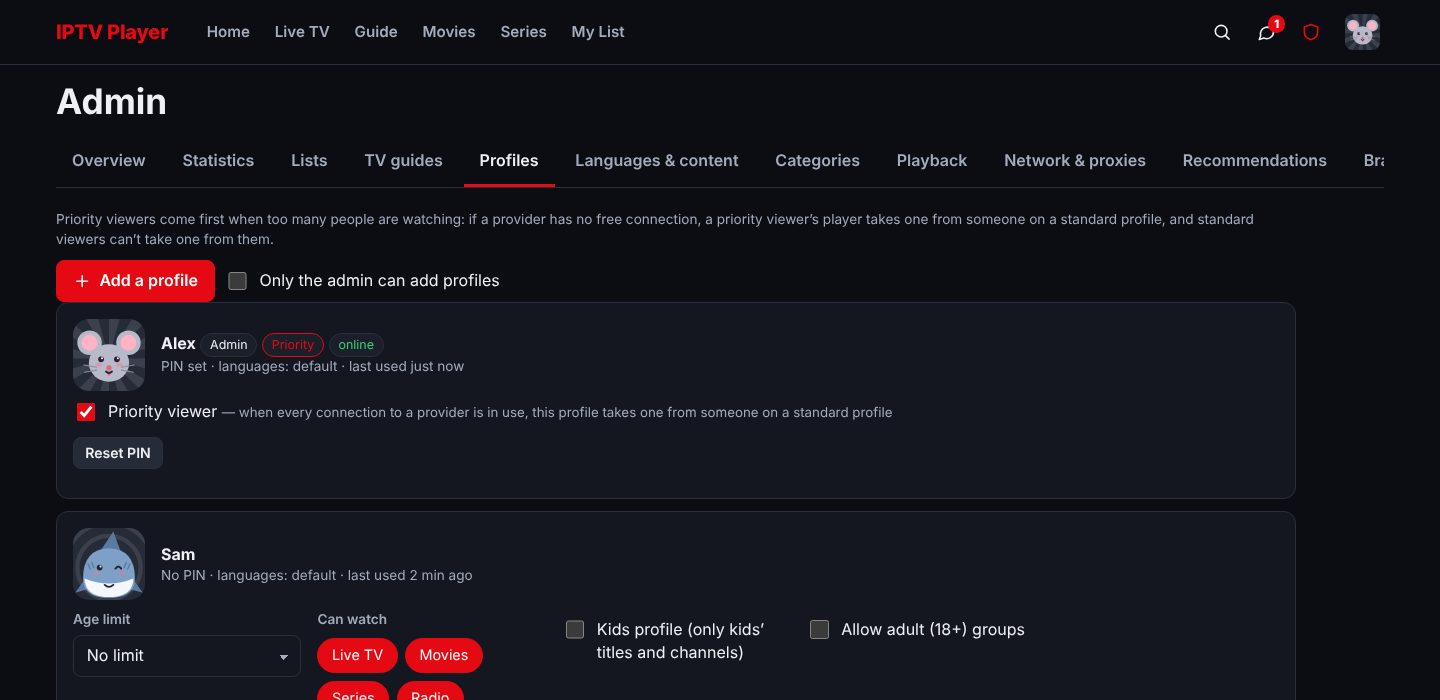
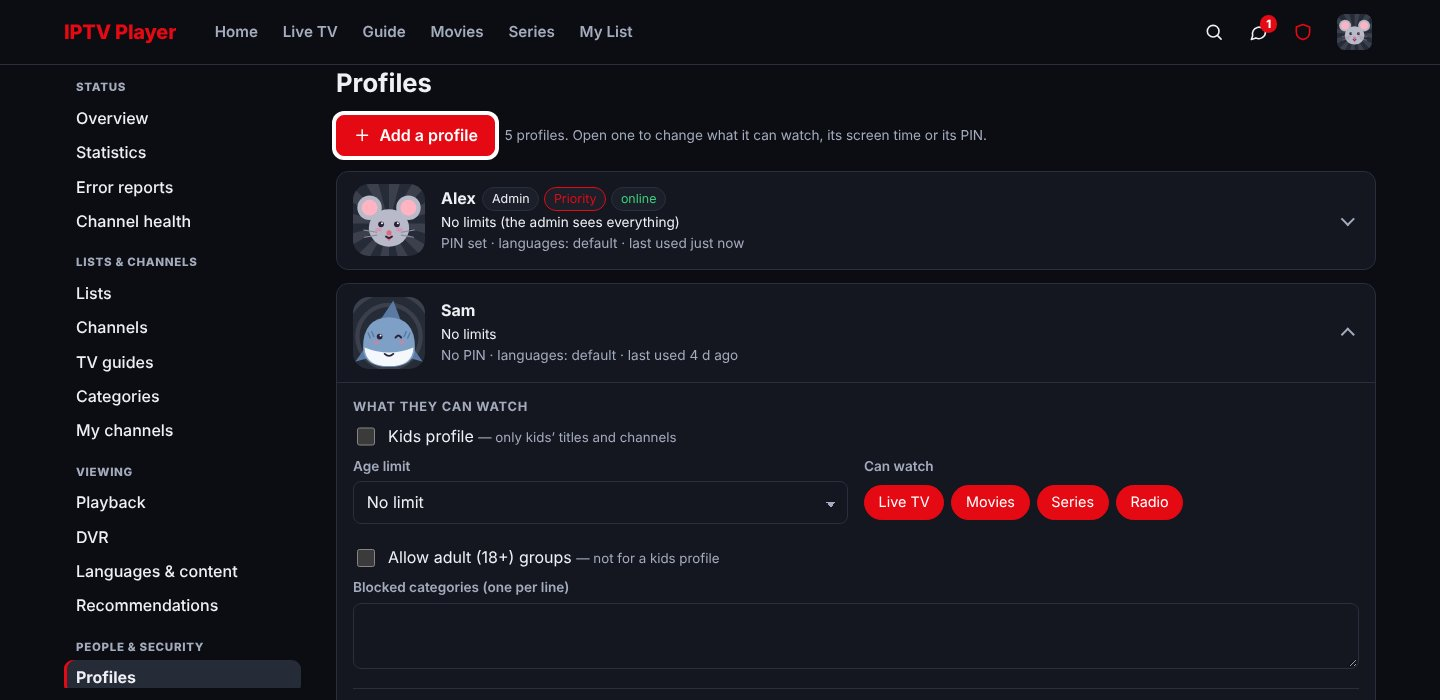
Admin Profiles page reorganised: each profile is one row with its limits in a line that opens to sections for what it can watch, screen time, priority, PIN and account; unsaved changes are marked; household settings and the Guest moved to their own section

diff --git a/web/js/admin.js b/web/js/admin.js
@@ -359,53 +359,110 @@ V.adminTabs.guides = function (body, A) {
   };
 };
 
+// Admin → Profiles. Everyone on one screen as a short row (who they are, what they're limited to); a row opens
+// to that profile's settings, in sections: what they can watch, screen time (web/js/screentime.js puts it in
+// its slot), connections, then the PIN and the account. What goes for the whole household is below the list.
+var PROF_CERTS = [['', 'No limit'], ['0', 'Little kids (G, TV-Y)'], ['1', 'Kids (PG, TV-PG)'], ['2', 'Teens (PG-13, TV-14)'], ['3', 'Mature (R, TV-MA)']];
+var PROF_TYPES = [['live', 'Live TV'], ['movie', 'Movies'], ['show', 'Series'], ['radio', 'Radio']];
+var profOpen = {}; // (the rows that are open: kept while the page is drawn again)
+/** A profile's limits in a line, for its row. */
+function profLimits(p, A) {
+  if (p.admin) return 'No limits (the admin sees everything)';
+  var r = p.restrictions || {}, bits = [];
+  if (p.kids) bits.push('Kids’ titles and channels only');
+  var c = PROF_CERTS.filter(function (x) { return x[0] !== '' && x[0] === String(r.maxCert); })[0];
+  if (c) bits.push('Age limit: ' + c[1].replace(/\s*\(.*$/, ''));
+  if (r.types && r.types.length && r.types.length < PROF_TYPES.length) bits.push('Only ' + PROF_TYPES.filter(function (t) { return r.types.indexOf(t[0]) >= 0; }).map(function (t) { return t[1]; }).join(', '));
+  if (r.adult && !p.kids && !A.settings.noAdult) bits.push('Adult (18+) allowed');
+  var nb = (r.blockedGroups || []).length;
+  if (nb) bits.push(nb + (nb === 1 ? ' blocked category' : ' blocked categories'));
+  return bits.join(' · ') || 'No limits';
+}
+function profChips(p) {
+  return (p.admin ? ' <span class="chip sm">Admin</span>' : '') + (p.kids ? ' <span class="chip sm">Kids</span>' : '') + (p.priority ? ' <span class="chip sm pri">Priority</span>' : '') + (p.online ? ' <span class="chip sm ok">online</span>' : '');
+}
 V.adminTabs.profiles = function (body, A) {
-  var certs = [['', 'No limit'], ['0', 'Little kids (G, TV-Y)'], ['1', 'Kids (PG, TV-PG)'], ['2', 'Teens (PG-13, TV-14)'], ['3', 'Mature (R, TV-MA)']];
-  body.innerHTML = '<p class="dim small">Priority viewers come first when too many people are watching: if a provider has no free connection, a priority viewer’s player takes one from someone on a standard profile, and standard viewers can’t take one from them.</p><div class="page-tools"><button class="btn primary" data-add>' + V.icon('plus') + ' Add a profile</button><label class="check"><input type="checkbox" data-aop' + (A.settings.adminOnlyProfiles ? ' checked' : '') + '><span>Only the admin can add profiles</span></label></div>' +
+  var s = A.settings;
+  var hasKids = A.profiles.some(function (p) { return p.kids; });
+  var opts = function (list, cur) { return list.map(function (c) { return '<option value="' + c[0] + '"' + (String(cur === undefined || cur === null ? '' : cur) === c[0] ? ' selected' : '') + '>' + c[1] + '</option>'; }).join(''); };
+  var card = function (p) {
+    var r = p.restrictions || {};
+    return '<li data-id="' + p.id + '"><details class="ap"' + (profOpen[p.id] ? ' open' : '') + '>' +
+      '<summary class="ap-h">' + V.avatar(p.avatar, 'lg') + '<div class="ap-who"><div class="ap-n"><b>' + V.esc(p.name) + '</b><span data-chips>' + profChips(p) + '</span><span class="chip sm warn" data-dirty hidden>Not saved</span></div>' +
+        '<div class="ap-lim small"><span data-lim>' + V.esc(profLimits(p, A)) + '</span><span data-st-sum></span></div>' +
+        '<div class="dim small">' + (p.hasPin ? 'PIN set' : 'No PIN') + ' · languages: ' + (p.langs ? V.esc(p.langs.map(function (c) { return V.langName(c); }).join(', ')) || 'none' : 'default') + ' · last used ' + V.fmtAgo(p.lastUsedAt) + '</div></div>' +
+        '<span class="ap-x" aria-hidden="true"></span></summary>' +
+      '<div class="ap-body">' +
+        (p.admin ? '' : '<section class="ap-sec ap-limits"><h4>What they can watch</h4>' +
+          '<label class="check"><input type="checkbox" data-r="kids"' + (p.kids ? ' checked' : '') + '><span>Kids profile <small class="dim">— only kids’ titles and channels</small></span></label>' +
+          '<div class="grid2"><label class="field"><span>Age limit</span><select class="input" data-r="maxCert">' + opts(PROF_CERTS, r.maxCert) + '</select></label>' +
+          '<div class="field"><span>Can watch</span><div class="chips">' + PROF_TYPES.map(function (t) { var on = !r.types || !r.types.length || r.types.indexOf(t[0]) >= 0; return '<label class="chip-check"><input type="checkbox" data-type="' + t[0] + '"' + (on ? ' checked' : '') + '><span>' + t[1] + '</span></label>'; }).join('') + '</div></div></div>' +
+          '<label class="check"><input type="checkbox" data-r="adult"' + (r.adult && !p.kids ? ' checked' : '') + (p.kids ? ' disabled' : '') + '><span>Allow adult (18+) groups' + (s.noAdult ? ' <small class="dim">— off for everyone (Languages & content → Adult content)</small>' : ' <small class="dim">— not for a kids profile</small>') + '</span></label>' +
+          '<label class="field"><span>Blocked categories (one per line)</span><textarea class="input" rows="2" data-r="blockedGroups">' + V.esc((r.blockedGroups || []).join('\n')) + '</textarea></label></section>') +
+        '<div data-st-slot></div>' +
+        '<section class="ap-sec"><h4>When every connection is in use</h4><label class="check ap-pri"><input type="checkbox" data-pri' + (p.priority ? ' checked' : '') + '><span>Priority viewer <small class="dim">— takes a connection from someone on a standard profile; standard viewers can’t take one from them. Saved straight away.</small></span></label></section>' +
+        '<div class="ap-foot">' + (p.admin ? '<span></span>' : '<div class="btn-row"><button class="btn sm primary" data-save>Save changes</button></div>') +
+          '<div class="btn-row ap-acct"><button class="btn sm" data-pin>' + (p.hasPin ? 'Change PIN' : 'Set a PIN') + '</button>' + (p.admin ? '' : '<button class="btn sm" data-make>Make admin</button><button class="btn sm danger" data-del>Delete profile</button>') + '</div></div>' +
+      '</div></details></li>';
+  };
+  body.innerHTML = '<div class="page-tools ap-tools"><button class="btn primary" data-add>' + V.icon('plus') + ' Add a profile</button><span class="dim small">' + A.profiles.length + (A.profiles.length === 1 ? ' profile' : ' profiles') + '. Open one to change what it can watch, its screen time or its PIN.</span></div>' +
+    '<ul class="adm-profiles">' + A.profiles.map(card).join('') + '</ul>' +
+    '<section class="card-sec adm-house"><h2>For the whole household</h2>' +
+    '<label class="check"><input type="checkbox" data-aop' + (s.adminOnlyProfiles || hasKids ? ' checked' : '') + (hasKids ? ' disabled' : '') + '><span>Only the admin can add profiles' + (hasKids ? ' <small class="dim">— always, while there’s a kids profile</small>' : '') + '</span></label>' +
     // A Guest on "Who's watching?" (web/js/guest.js): nothing it watches is kept or shown to anyone else.
-    '<section class="card-sec adm-guest"><h3>Guest</h3><label class="check"><input type="checkbox" data-guest="guestProfile"' + (A.settings.guestProfile ? ' checked' : '') + '><span>Offer a Guest on “Who’s watching?” <small class="dim">— for visitors: no PIN, nothing they watch, like or add to My List is saved (it’s forgotten when they leave), and none of it goes into anyone’s recommendations or “also watched”. Guests can’t record, message, start watch parties or change anything here.</small></span></label>' +
-    '<div class="grid2"><div><label class="check"><input type="checkbox" data-guest="guestKids"' + (A.settings.guestKids ? ' checked' : '') + '><span>Kids’ titles and channels only</span></label>' +
-    '<label class="check"><input type="checkbox" data-guest="guestAdult"' + (A.settings.guestAdult ? ' checked' : '') + '><span>Allow adult (18+) groups <small class="dim">— not with kids’ titles only' + (A.settings.noAdult ? '; off for everyone now (Languages & content → Adult content)' : '') + '</small></span></label></div>' +
-    '<label class="field"><span>Age limit for guests</span><select class="input" data-guest="guestMaxCert">' + certs.map(function (c) { return '<option value="' + c[0] + '"' + (String(A.settings.guestMaxCert || '') === c[0] ? ' selected' : '') + '>' + c[1] + '</option>'; }).join('') + '</select></label></div></section>' +
-    '<ul class="adm-profiles">' + A.profiles.map(function (p) {
-      var r = p.restrictions || {};
-      return '<li data-id="' + p.id + '"><div class="ap-h">' + V.avatar(p.avatar, 'lg') + '<div><b>' + V.esc(p.name) + '</b>' + (p.admin ? ' <span class="chip sm">Admin</span>' : '') + (p.kids ? ' <span class="chip sm">Kids</span>' : '') + (p.priority ? ' <span class="chip sm pri" data-prichip>Priority</span>' : '') + (p.online ? ' <span class="chip sm ok">online</span>' : '') +
-        '<div class="dim small">' + (p.hasPin ? 'PIN set' : 'No PIN') + ' · languages: ' + (p.langs ? V.esc(p.langs.map(function (c) { return V.langName(c); }).join(', ')) || 'none' : 'default') + ' · last used ' + V.fmtAgo(p.lastUsedAt) + '</div></div></div>' +
-        (p.admin ? '' : '<div class="ap-limits grid2"><label class="field"><span>Age limit</span><select class="input" data-r="maxCert">' + certs.map(function (c) { return '<option value="' + c[0] + '"' + (String(r.maxCert) === c[0] ? ' selected' : '') + '>' + c[1] + '</option>'; }).join('') + '</select></label>' +
-          '<div class="field"><span>Can watch</span><div class="chips">' + [['live', 'Live TV'], ['movie', 'Movies'], ['show', 'Series'], ['radio', 'Radio']].map(function (t) { var on = !r.types || !r.types.length || r.types.indexOf(t[0]) >= 0; return '<label class="chip-check"><input type="checkbox" data-type="' + t[0] + '"' + (on ? ' checked' : '') + '><span>' + t[1] + '</span></label>'; }).join('') + '</div></div>' +
-          '<label class="check"><input type="checkbox" data-r="kids"' + (p.kids ? ' checked' : '') + '><span>Kids profile (only kids’ titles and channels)</span></label><label class="check"><input type="checkbox" data-r="adult"' + (r.adult ? ' checked' : '') + '><span>Allow adult (18+) groups' + (A.settings.noAdult ? ' <small class="dim">— off for everyone (Languages & content → Adult content)</small>' : '') + '</span></label>' +
-          '<label class="field wide"><span>Blocked categories (one per line)</span><textarea class="input" rows="2" data-r="blockedGroups">' + V.esc((r.blockedGroups || []).join('\n')) + '</textarea></label></div>') +
-        '<label class="check ap-pri"><input type="checkbox" data-pri' + (p.priority ? ' checked' : '') + '><span>Priority viewer <small class="dim">— when every connection to a provider is in use, this profile takes one from someone on a standard profile</small></span></label>' +
-        '<div class="btn-row">' + (p.admin ? '' : '<button class="btn sm primary" data-save>Save limits</button>') + '<button class="btn sm" data-pin>' + (p.hasPin ? 'Reset PIN' : 'Set a PIN') + '</button>' + (p.admin ? '' : '<button class="btn sm" data-make>Make admin</button><button class="btn sm danger" data-del>Delete</button>') + '</div></li>';
-    }).join('') + '</ul>';
+    '<h3>Guest</h3><label class="check"><input type="checkbox" data-guest="guestProfile"' + (s.guestProfile ? ' checked' : '') + '><span>Offer a Guest on “Who’s watching?” <small class="dim">— for visitors: no PIN, nothing they watch, like or add to My List is saved (it’s forgotten when they leave), and none of it goes into anyone’s recommendations or “also watched”. Guests can’t record, message, start watch parties or change anything here.</small></span></label>' +
+    '<div class="adm-guest"' + (s.guestProfile ? '' : ' hidden') + '><div class="grid2"><div><label class="check"><input type="checkbox" data-guest="guestKids"' + (s.guestKids ? ' checked' : '') + '><span>Kids’ titles and channels only</span></label>' +
+    '<label class="check"><input type="checkbox" data-guest="guestAdult"' + (s.guestAdult ? ' checked' : '') + '><span>Allow adult (18+) groups <small class="dim">— not with kids’ titles only' + (s.noAdult ? '; off for everyone now (Languages & content → Adult content)' : '') + '</small></span></label></div>' +
+    '<label class="field"><span>Age limit for guests</span><select class="input" data-guest="guestMaxCert">' + opts(PROF_CERTS, s.guestMaxCert || '') + '</select></label></div></div></section>';
+  var byId = function (id) { return A.profiles.filter(function (x) { return x.id === id; })[0]; };
+  var dirty = function (li, on) { var d = V.$('[data-dirty]', li); if (d) d.hidden = !on; li.classList.toggle('dirty', !!on); };
+  // (Which rows are open, for when the page is drawn again after a PIN or a deletion.)
+  body.addEventListener('toggle', function (e) { var li = e.target.classList && e.target.classList.contains('ap') && e.target.closest('[data-id]'); if (li) profOpen[li.dataset.id] = e.target.open; }, true);
+  body.addEventListener('input', function (e) { var li = e.target.closest('.ap-limits, .st-box') && e.target.closest('[data-id]'); if (li) dirty(li, true); });
   body.onchange = function (e) {
-    if (e.target.hasAttribute('data-aop')) V.adminSave({ adminOnlyProfiles: e.target.checked });
-    else if (e.target.hasAttribute('data-guest')) { var gp = {}; gp[e.target.dataset.guest] = e.target.type === 'checkbox' ? e.target.checked : e.target.value; V.adminSave(gp).then(function (s) { if (s) Object.assign(A.settings, gp); }).catch(function () {}); }
-    else if (e.target.hasAttribute('data-pri')) {
+    var t = e.target, li = t.closest('[data-id]');
+    if (t.hasAttribute('data-aop')) V.adminSave({ adminOnlyProfiles: t.checked }).catch(function () { t.checked = !t.checked; });
+    else if (t.hasAttribute('data-guest')) {
+      var gp = {};
+      gp[t.dataset.guest] = t.type === 'checkbox' ? t.checked : t.value;
+      if (t.dataset.guest === 'guestProfile') V.$('.adm-guest', body).hidden = !t.checked;
+      V.adminSave(gp).then(function (ns) { if (ns) Object.assign(A.settings, gp); }).catch(function () {});
+    } else if (t.hasAttribute('data-pri')) {
       // Saved straight away (it isn't one of the limits).
-      var li = e.target.closest('[data-id]'), on = e.target.checked, p = A.profiles.filter(function (x) { return x.id === li.dataset.id; })[0];
+      var on = t.checked, p = byId(li.dataset.id);
       V.put('/api/admin/profiles/' + li.dataset.id, { priority: on }).then(function () {
-        if (p) p.priority = on;
-        var chip = V.$('[data-prichip]', li);
-        if (on && !chip) V.$('.ap-h b', li).insertAdjacentHTML('afterend', ' <span class="chip sm pri" data-prichip>Priority</span>');
-        else if (!on && chip) chip.remove();
+        if (p) { p.priority = on; V.$('[data-chips]', li).innerHTML = profChips(p); }
         V.toast(on ? (p ? p.name : 'They') + ' now has priority' : (p ? p.name : 'They') + ' is a standard viewer again');
-      }).catch(function (err) { e.target.checked = !on; V.fail(err); });
+      }).catch(function (err) { t.checked = !on; V.fail(err); });
+    } else if (li && t.closest('.ap-limits, .st-box')) {
+      // (A kids profile never gets the adult groups.)
+      if (t.getAttribute('data-r') === 'kids') { var ad = V.$('[data-r=adult]', li); ad.disabled = t.checked; if (t.checked) ad.checked = false; }
+      dirty(li, true);
     }
   };
   body.onclick = function (e) {
     if (e.target.closest('[data-add]')) { S.boot.firstRun = false; return V.addProfileDialog(); }
     var li = e.target.closest('[data-id]');
     if (!li) return;
-    var id = li.dataset.id, p = A.profiles.filter(function (x) { return x.id === id; })[0];
+    var id = li.dataset.id, p = byId(id);
     if (e.target.closest('[data-save]')) {
       var types = V.$$('[data-type]', li).filter(function (x) { return x.checked; }).map(function (x) { return x.dataset.type; });
-      V.put('/api/admin/profiles/' + id, { kids: V.$('[data-r=kids]', li).checked, restrictions: { maxCert: V.$('[data-r=maxCert]', li).value, types: types.length === 4 ? [] : types, adult: V.$('[data-r=adult]', li).checked, blockedGroups: V.$('[data-r=blockedGroups]', li).value.split('\n').map(function (x) { return x.trim(); }).filter(Boolean) } }).then(function () { V.toast('Saved'); }).catch(V.fail);
+      var kids = V.$('[data-r=kids]', li).checked;
+      var rs = { maxCert: V.$('[data-r=maxCert]', li).value, types: types.length === 4 ? [] : types, adult: V.$('[data-r=adult]', li).checked, blockedGroups: V.$('[data-r=blockedGroups]', li).value.split('\n').map(function (x) { return x.trim(); }).filter(Boolean) };
+      V.put('/api/admin/profiles/' + id, { kids: kids, restrictions: rs }).then(function () {
+        // (The row says what was saved.)
+        p.kids = kids; p.restrictions = rs;
+        V.$('[data-chips]', li).innerHTML = profChips(p);
+        V.$('[data-lim]', li).textContent = profLimits(p, A);
+        dirty(li, false);
+        V.toast('Saved');
+      }).catch(V.fail);
     } else if (e.target.closest('[data-pin]')) V.prompt('New PIN for ' + p.name + ' (4–8 digits' + (p.admin ? '' : ', empty to remove') + ')', { type: 'password' }).then(function (pin) { if (pin === null) return; V.put('/api/admin/profiles/' + id, { pin: pin }).then(function () { V.toast('Saved'); V.router.refresh(); }).catch(V.fail); });
     else if (e.target.closest('[data-make]')) V.confirm('Make ' + p.name + ' the admin? You’ll stop being the admin. (There’s only ever one.)', { ok: 'Make admin', danger: true }).then(function (ok) { if (ok) V.api('/api/admin/profiles/' + id + '/make-admin', { method: 'POST' }).then(function () { location.reload(); }).catch(V.fail); });
-    else if (e.target.closest('[data-del]')) V.confirm('Delete ' + p.name + '? Their history, lists and messages are removed.', { ok: 'Delete', danger: true }).then(function (ok) { if (ok) V.del('/api/admin/profiles/' + id).then(function () { V.router.refresh(); }).catch(V.fail); });
+    else if (e.target.closest('[data-del]')) V.confirm('Delete ' + p.name + '? Their history, lists and messages are removed.', { ok: 'Delete', danger: true }).then(function (ok) { if (ok) V.del('/api/admin/profiles/' + id).then(function () { delete profOpen[id]; V.router.refresh(); }).catch(V.fail); });
   };
 };
+
 
 V.adminTabs.content = function (body, A) {
   var s = A.settings;

diff --git a/web/js/screentime.js b/web/js/screentime.js
@@ -260,7 +260,7 @@
       '<div class="st-days">' + groupsHtml(r.mode, r.days) + '</div>' +
       '<p class="dim small">Leave the times empty for no bedtime. Bedtime lasts until the “allowed from” time (06:00 if empty).</p>' +
       '<label class="field"><span>Time zone</span>' + tzField(r.tz || '', tz) + '</label>' +
-      '<p class="dim small">Saved with the profile’s other limits (<b>Save limits</b> below).</p>' +
+      '<p class="dim small">Saved with the profile’s other limits (<b>Save changes</b> below).</p>' +
       (s.limited ? '<div class="st-today"><h4>Today</h4><p>' + V.esc(fmtMin(s.used) + ' watched' + (s.extra ? ' (with ' + fmtMin(s.extra) + ' extra)' : '') + ' · ' + leftText(Object.assign({}, s, { nextAtText: s.nextAtText }))) + '</p>' +
         '<div class="btn-row"><span class="dim small">Extra time today:</span><button class="btn sm" data-st-grant="15">+15 min</button><button class="btn sm" data-st-grant="30">+30 min</button><button class="btn sm" data-st-grant="60">+1 hour</button><button class="btn sm ghost" data-st-reset>Back to normal</button></div>' +
         (week ? '<div class="st-week"><span class="dim small">Last days:</span> ' + week + '</div>' : '') + '</div>' : '') +
@@ -275,6 +275,13 @@
     else r.days = DAYS.map(function (n, i) { return day(String(i)); });
     return r;
   };
+  // The profile's row says its screen time too, and opens by itself when more time was asked for.
+  var head = function (li, x) {
+    var sum = V.$('[data-st-sum]', li), on = x.rule && x.rule.on, asked = (x.requests || []).length;
+    if (sum) sum.innerHTML = (on ? ' · Screen time: ' + V.esc(summary(x)) : '') + (asked ? ' <span class="chip sm warn">Asked for more time</span>' : '');
+    var d = V.$('details.ap', li);
+    if (asked && d && !d.open) d.open = true;
+  };
   var origProfiles = V.adminTabs.profiles;
   V.adminTabs.profiles = function (body, A) {
     origProfiles(body, A);
@@ -282,11 +289,13 @@
       V.$$('.adm-profiles > li[data-id]', body).forEach(function (li) {
         var x = X.profiles[li.dataset.id];
         if (!x) return;
-        var row = V.$('.btn-row', li);
+        // (Its place in the profile's card: web/js/admin.js.)
+        var slot = V.$('[data-st-slot]', li);
         var host = document.createElement('div');
         host.className = 'st-host';
         host.innerHTML = stBox(null, x, X.tz);
-        li.insertBefore(host, row);
+        if (slot) slot.appendChild(host); else li.insertBefore(host, V.$('.btn-row', li));
+        head(li, x);
       });
       body.addEventListener('change', function (e) {
         var box = e.target.closest('.st-box');
@@ -304,7 +313,7 @@
           V.$('.st-days', box).innerHTML = groupsHtml(e.target.value, days);
         }
       });
-      // One Save for the card: "Save limits" saves the screen time too (admin.js saves the rest and says so).
+      // One Save for the card: "Save changes" saves the screen time too (admin.js saves the rest and says so).
       body.addEventListener('click', function (e) {
         var sv = e.target.closest('[data-save]');
         var li = sv && sv.closest('[data-id]');
@@ -313,7 +322,7 @@
         var id = li.dataset.id, rule = readRule(box), had = X.profiles[id] && X.profiles[id].rule;
         if (!rule.on && !had) return; // (never set up: nothing to save)
         var wasOpen = box.open;
-        V.put('/api/admin/screentime/' + id, { rule: rule }).then(function (x) { var h = box.parentNode; h.innerHTML = stBox(null, x, X.tz); if (wasOpen) V.$('.st-box', h).open = true; X.profiles[id] = x; }).catch(V.fail);
+        V.put('/api/admin/screentime/' + id, { rule: rule }).then(function (x) { var h = box.parentNode; h.innerHTML = stBox(null, x, X.tz); if (wasOpen) V.$('.st-box', h).open = true; X.profiles[id] = x; head(li, x); }).catch(V.fail);
       });
       body.addEventListener('click', function (e) {
         var box = e.target.closest('.st-box');
@@ -324,7 +333,7 @@
         box._busy = true; // (a double click doesn't give the extra time twice)
         var free = function (err) { box._busy = false; V.fail(err); };
         // (Drawn again with the answer, still open, with the focus on the same button for a remote.)
-        var done = function (x) { var h = box.parentNode, sel = btn.hasAttribute('data-st-grant') ? '[data-st-grant="' + btn.dataset.stGrant + '"]' : '[data-st-reset]'; h.innerHTML = stBox(null, x, X.tz); var nb = V.$('.st-box', h); nb.open = true; X.profiles[id] = x; var f = V.$(sel, nb); if (f) f.focus(); return x; };
+        var done = function (x) { var h = box.parentNode, sel = btn.hasAttribute('data-st-grant') ? '[data-st-grant="' + btn.dataset.stGrant + '"]' : '[data-st-reset]'; h.innerHTML = stBox(null, x, X.tz); var nb = V.$('.st-box', h); nb.open = true; X.profiles[id] = x; head(li, x); var f = V.$(sel, nb); if (f) f.focus(); return x; };
         if (btn.hasAttribute('data-st-grant')) {
           var m = +btn.dataset.stGrant;
           V.api('/api/admin/screentime/' + id + '/grant', { body: { minutes: m } }).then(function (x) { done(x); V.toast('Gave ' + fmtMin(m) + ' more today'); }, free);

diff --git a/web/css/p27.css b/web/css/p27.css
@@ -113,3 +113,35 @@ dialog.dlg.trl-dlg .dlg-b { padding: 0; }
 button.link { background: none; border: 0; padding: 0; color: var(--accent); font: inherit; cursor: pointer; text-decoration: underline; }
 .gp.none.why { cursor: pointer; }
 .gp.none.why:hover, .gp.none.why:focus-visible { color: var(--text, #fff); }
+
+/* Admin → Profiles: each profile is a row that opens to its settings, in sections. */
+.ap-tools { margin-bottom: .9rem; }
+.adm-profiles > li { padding: 0; overflow: hidden; }
+.ap > summary.ap-h { margin: 0; padding: .8rem 1rem; cursor: pointer; list-style: none; -webkit-tap-highlight-color: transparent; }
+.ap > summary.ap-h::-webkit-details-marker { display: none; }
+.ap > summary.ap-h:hover { background: var(--card); }
+.ap > summary.ap-h:focus-visible { outline: 3px solid var(--accent); outline-offset: -3px; border-radius: 12px; }
+.ap-who { flex: 1 1 auto; min-width: 0; }
+.ap-n { display: flex; flex-wrap: wrap; align-items: center; gap: .25rem .4rem; }
+.ap-n [data-chips] { display: inline-flex; flex-wrap: wrap; gap: .25rem .3rem; }
+.ap-lim { margin: .15rem 0 .1rem; }
+.ap-lim .chip { margin-left: .3rem; }
+.ap-x { flex: none; width: .6rem; height: .6rem; margin: 0 .4rem .2rem; border-right: 2px solid var(--dim); border-bottom: 2px solid var(--dim); transform: rotate(45deg); transition: transform .15s; }
+.ap[open] > summary .ap-x { transform: rotate(-135deg); margin-bottom: -.2rem; }
+.reduce-motion .ap-x { transition: none; }
+.ap[open] > summary.ap-h { border-bottom: 1px solid var(--line); }
+.ap-body { padding: .2rem 1rem .4rem; }
+.ap-sec { padding: .8rem 0; border-bottom: 1px solid var(--line); }
+.ap-sec h4 { margin: 0 0 .4rem; font-size: .8rem; letter-spacing: .06em; text-transform: uppercase; color: var(--dim); }
+.ap-sec .check:last-child, .ap-sec .field:last-child { margin-bottom: 0; }
+.ap-body [data-st-slot]:not(:empty) { padding: .2rem 0; border-bottom: 1px solid var(--line); }
+.ap-foot { display: flex; flex-wrap: wrap; justify-content: space-between; align-items: center; gap: 0 1rem; }
+.ap-foot .ap-acct { margin-left: auto; }
+.adm-house h3 { margin: 1.1rem 0 .3rem; }
+.adm-house .adm-guest { margin: .2rem 0 0 1.75rem; }
+@media (max-width: 600px) {
+  .ap > summary.ap-h { padding: .7rem .8rem; gap: .7rem; align-items: flex-start; }
+  .ap-body { padding: .2rem .8rem .4rem; }
+  .ap-h .avatar.lg { width: 2.8rem; height: 2.8rem; }
+  .adm-house .adm-guest { margin-left: 0; }
+}

diff --git a/README.md b/README.md
@@ -188,14 +188,15 @@ Nothing is shown to someone who hasn't signed in: not the brand, the channels or
 
 ### Profiles and the household
 
-![Admin → Profiles with a Priority viewer switch on each profile](docs/screenshots/admin-profiles.jpg)
+![Admin → Profiles: each profile is a row that opens to what it can watch, its screen time and its PIN](docs/screenshots/admin-profiles.jpg)
 
 - Unlimited profiles with 142 original profile pictures, or upload a photo. Each device remembers its profile.
 - **Optional PINs,** remembered on a device for 6 months or for 30 minutes, with a lockout after wrong guesses (on the device that guessed, and everywhere after many guesses across devices).
 - **Kids profiles and age limits** (five levels, read from US, UK and EU ratings). Profiles can also be limited by type (live, films, series, radio) and category. Adult content is hidden unless allowed.
 - Each profile keeps its own history, My List, favourites, ratings, hidden titles, home layout, theme, subtitle style and languages.
 - **Busy providers:** if someone is already using the provider's connection, it says who's watching what and offers *Take over*. Titles on several providers play from the one with a free connection.
-- **Priority viewers:** mark profiles as *Priority* in Admin → Profiles. When a provider has no free connection, a priority viewer automatically takes one from someone on a standard profile, and that person's screen says who needed it. Standard profiles can't take a connection from a priority viewer.
+- **Admin → Profiles at a glance:** every profile is one row that says who it is and what it's limited to (*Kids' titles only · Age limit: Teens · Screen time: school days 1 h*). A row opens to that profile's settings in sections: what it can watch, screen time, priority, then its PIN and the account buttons. A change that isn't saved yet is marked *Not saved* on the row, and a profile that asked for more time opens by itself. What goes for everyone (who may add profiles, the Guest) is in its own section underneath.
+- **Priority viewers:** open a profile in Admin → Profiles and tick *Priority viewer*. When a provider has no free connection, a priority viewer automatically takes one from someone on a standard profile, and that person's screen says who needed it. Standard profiles can't take a connection from a priority viewer.
 - **Guest:** turn on *Offer a Guest* in Admin → Profiles and visitors get a Guest button on “Who’s watching?” (no PIN). Each visit is its own and kept in memory only. Nothing a guest watches, likes or adds to My List is saved, it's forgotten when they leave, and it never shows up in anyone's recommendations or “also watched”. Guests can't record, message, start watch parties or change profiles and settings. You can limit guests to kids' titles or an age rating, or allow adult (18+) groups for them.
 - **Together:** messages with titles and reactions, shared watchlists, and **watch parties** that keep play, pause and seek in sync, with chat and emoji reactions. A party **shares one provider connection**: the server fetches the stream once for everyone in it.
 - **Your channel lists:** each profile can put its favourites in its own order, make its own lists ("Football", "Kids' channels"), and choose which list Live TV and the guide open on.

diff --git a/docs/channels-and-guide.md b/docs/channels-and-guide.md
@@ -124,8 +124,8 @@ Programmes are coloured by type: sport, film, news, kids, documentary, music and
 
 Any profile except the admin can have screen time limits; they're most useful on Kids profiles.
 
-- In **Admin → Profiles**, open **Screen time** on a profile and switch on **Limit screen time**. Choose rules for *every day the same*, *school days and weekends* (Monday–Friday / Saturday and Sunday) or *each day of the week*. For each: a **daily limit** (or none), the time watching is **allowed from**, and a **bedtime**. Bedtime lasts until the "allowed from" time, or 06:00 if that's empty; a bedtime after midnight (00:30) works too.
-- Days and times are in the **server's time zone**. A profile can have its own (for example `Europe/London`), chosen from the **Time zone** list in the same place. **Save limits** saves the screen time together with the profile's other limits.
+- In **Admin → Profiles**, open a profile, then its **Screen time**, and switch on **Limit screen time**. Choose rules for *every day the same*, *school days and weekends* (Monday–Friday / Saturday and Sunday) or *each day of the week*. For each: a **daily limit** (or none), the time watching is **allowed from**, and a **bedtime**. Bedtime lasts until the "allowed from" time, or 06:00 if that's empty; a bedtime after midnight (00:30) works too.
+- Days and times are in the **server's time zone**. A profile can have its own (for example `Europe/London`), chosen from the **Time zone** list in the same place. **Save changes** saves the screen time together with the profile's other limits.
 - **The server counts and enforces it.** Time is counted a minute at a time from what the devices already tell the server while they play (what's playing, the playback reports sent while the picture moves, and conversions on the server). A paused player stops counting after a minute or so. Two devices, a watch party or multiview all count once per minute. When time is up the server refuses to start anything new for that profile, stops its conversions, and tells its devices to stop.
 - **Viewers** see how much is left on Home, and in the player when less than 15 minutes are left. They get a warning 5 minutes and 1 minute before the end, then a friendly *That's all for today* (or *Time for bed*) screen.
 - **Ask for more time:** on that screen, or on Home near the end, a viewer can ask for 15, 30 or 60 more minutes. The admin gets one pop-up with *Give* / *Not today* on every device they have open (or when they next open the app), and the request also waits in Admin → Profiles. The viewer's screen says the answer.
